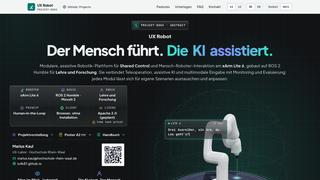
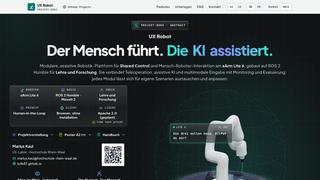
update project pages (dev_ws 435483bd)

Changed region(s): [[0.5, 0.6111, 0.7812, 0.9167], [0.625, 0.9444, 0.7812, 1.0]]

diff --git a/index.html b/index.html
@@ -887,7 +887,7 @@ footer p { margin: 0; }
     <p class="kicker"><b>01</b><span>UX Lab</span></p>
     <h2 id="h-lab" data-en="UX Lab · Rhine-Waal University of Applied Sciences">UX Lab · Hochschule Rhein-Waal</h2>
     <p class="intro" data-en="Robotics platform and research belong together: the study runs on UX Robot.">Robotik-Plattform und Forschung gehören zusammen: Die Studie läuft auf UX Robot.</p>
-    <div class="grid rows"><article class="card row" id="p-ux_robot" data-reveal><div class="info"><div class="plate"><a class="qr-code" href="web_ux_robot/project_docs.html" aria-label="QR-Code lu4k87.github.io/web_ux_robot" data-en-aria="QR code lu4k87.github.io/web_ux_robot"><svg viewBox="0 0 29 29" class="segno"><path class="qrline" stroke="#000" d="M0 0.5h7m1 0h3m1 0h1m1 0h1m1 0h5m1 0h7m-29 1h1m5 0h1m1 0h2m6 0h2m2 0h1m1 0h1m5 0h1m-29 1h1m1 0h3m1 0h1m2 0h1m1 0h1m1 0h1m1 0h1m2 0h1m1 0h1m1 0h1m1 0h3m1 0h1m-29 1h1m1 0h3m1 0h1m1 0h1m1 0h1m6 0h1m1 0h1m2 0h1m1 0h3m1 0h1m-29 1h1m1 0h3m1 0h1m2 0h1m4 0h3m2 0h2m1 0h1m1 0h3m1 0h1m-29 1h1m5 0h1m2 0h3m1 0h1m2 0h4m2 0h1m5 0h1m-29 1h7m1 0h1m1 0h1m1 0h1m1 0h1m1 0h1m1 0h1m1 0h1m1 0h7m-21 1h1m5 0h2m1 0h4m-21 1h1m1 0h2m1 0h3m1 0h3m1 0h1m2 0h2m1 0h1m2 0h1m2 0h1m1 0h2m-29 1h4m3 0h3m1 0h1m1 0h1m2 0h5m1 0h1m1 0h1m3 0h1m-27 1h7m2 0h1m1 0h1m2 0h1m1 0h1m3 0h1m1 0h1m1 0h2m-28 1h2m1 0h2m2 0h3m2 0h1m2 0h1m2 0h3m1 0h1m1 0h1m3 0h1m-29 1h3m3 0h1m1 0h1m1 0h3m1 0h1m2 0h1m2 0h2m3 0h2m-27 1h4m3 0h3m4 0h6m1 0h2m3 0h3m-29 1h1m5 0h1m2 0h1m2 0h2m2 0h4m1 0h2m3 0h3m-29 1h4m3 0h2m1 0h1m1 0h1m1 0h1m7 0h3m2 0h1m-28 1h2m4 0h1m2 0h3m2 0h1m1 0h1m1 0h3m3 0h2m1 0h1m-26 1h3m2 0h1m1 0h1m1 0h2m1 0h2m4 0h1m4 0h3m-28 1h1m1 0h7m4 0h4m5 0h3m1 0h1m-25 1h4m1 0h3m1 0h8m3 0h1m3 0h1m-26 1h3m2 0h1m2 0h2m2 0h3m1 0h10m-19 1h1m1 0h1m1 0h1m2 0h2m1 0h3m3 0h5m-29 1h7m1 0h2m4 0h1m4 0h2m1 0h1m1 0h2m1 0h1m-28 1h1m5 0h1m1 0h1m1 0h2m1 0h2m1 0h1m3 0h1m3 0h2m1 0h2m-29 1h1m1 0h3m1 0h1m4 0h1m4 0h1m3 0h5m1 0h1m-27 1h1m1 0h3m1 0h1m1 0h1m1 0h1m4 0h2m1 0h4m2 0h2m2 0h1m-29 1h1m1 0h3m1 0h1m1 0h5m1 0h1m2 0h4m2 0h1m2 0h1m1 0h1m-29 1h1m5 0h1m2 0h3m3 0h2m3 0h1m3 0h2m1 0h1m-28 1h7m1 0h3m3 0h1m1 0h1m1 0h5m1 0h1m2 0h1"/></svg></a><div class="qr-meta"><span class="host">lu4k87.github.io</span><a class="path" href="web_ux_robot/project_docs.html">/web_<wbr>ux_<wbr>robot</a><span class="scan"><svg class="i" aria-hidden="true"><use href="#i-qr"/></svg><span data-en="Scan to open">Zum Scannen</span></span><button class="qr-more" type="button" aria-expanded="false"><svg class="i" aria-hidden="true"><use href="#i-qr"/></svg><span class="qr-show" data-en="Show QR code">QR-Code zeigen</span><span class="qr-hide" data-en="Hide QR code">QR-Code ausblenden</span></button></div></div><div class="body"><p class="tag" data-en="Robotics · ROS 2 · xArm Lite 6">Robotik · ROS 2 · xArm Lite 6</p><h3>UX Robot</h3><p class="desc" data-en="Assistive robotics platform for the xArm Lite 6 – The human leads. The AI assists.">Assistive Robotik-Plattform für den xArm Lite 6 – Der Mensch führt. Die KI assistiert.</p></div><div class="acts"><div class="btns"><a class="btn main" href="web_ux_robot/project_docs.html"><span data-en="Read the docs">Doku lesen</span><svg class="i go" aria-hidden="true"><use href="#i-go"/></svg></a><a class="btn" href="web_ux_robot/project_docs.html"><span data-en="Open page">Seite öffnen</span><svg class="i go" aria-hidden="true"><use href="#i-go"/></svg></a></div><span class="repo-status" role="img" aria-label="Code privat" data-en-aria="Code private"><svg class="i" aria-hidden="true"><use href="#i-lock"/></svg><span data-en="Code private">Code privat</span></span></div></div><div class="shot"><a class="win" href="web_ux_robot/project_docs.html" aria-label="Seite öffnen: UX Robot · lu4k87.github.io/web_ux_robot" data-en-aria="Open page: UX Robot · lu4k87.github.io/web_ux_robot"><span class="win-bar"><i></i><i></i><i></i><span class="win-url">lu4k87.github.io/<wbr>web_<wbr>ux_<wbr>robot</span></span><span class="win-view tall" style="--r: 0.225; --d: 10.3s"><span class="win-pane"><img src="web_shots/ux_robot.jpg?v=a13799be" width="1200" height="3000" alt="" loading="lazy" decoding="async"></span><i class="win-pos" aria-hidden="true"><b></b></i></span></a></div></article><article class="card row" id="p-ux_robot_research" data-reveal><div class="info"><div class="plate"><a class="qr-code" href="web_ux_robot/present_research.html" aria-label="QR-Code lu4k87.github.io/web_ux_robot_research" data-en-aria="QR code lu4k87.github.io/web_ux_robot_research"><svg viewBox="0 0 33 33" class="segno"><path class="qrline" stroke="#000" d="M0 0.5h7m1 0h2m2 0h2m1 0h1m2 0h2m1 0h4m1 0h7m-33 1h1m5 0h1m2 0h4m4 0h2m2 0h2m1 0h1m1 0h1m5 0h1m-33 1h1m1 0h3m1 0h1m2 0h1m3 0h2m4 0h1m1 0h1m2 0h1m1 0h1m1 0h3m1 0h1m-33 1h1m1 0h3m1 0h1m3 0h4m1 0h3m3 0h3m2 0h1m1 0h3m1 0h1m-33 1h1m1 0h3m1 0h1m1 0h5m4 0h7m2 0h1m1 0h3m1 0h1m-33 1h1m5 0h1m1 0h1m3 0h4m1 0h1m4 0h1m3 0h1m5 0h1m-33 1h7m1 0h1m1 0h1m1 0h1m1 0h1m1 0h1m1 0h1m1 0h1m1 0h1m1 0h1m1 0h7m-23 1h1m2 0h1m1 0h2m1 0h2m1 0h3m-23 1h7m1 0h3m1 0h2m2 0h1m5 0h1m3 0h2m3 0h1m-33 1h2m1 0h2m3 0h5m3 0h5m2 0h2m1 0h2m1 0h4m-33 1h2m4 0h2m3 0h1m1 0h3m2 0h1m1 0h1m1 0h1m3 0h1m1 0h1m1 0h2m-31 1h2m4 0h2m1 0h1m1 0h1m1 0h3m1 0h1m1 0h5m3 0h5m-29 1h1m1 0h3m7 0h1m1 0h1m1 0h1m1 0h4m2 0h2m1 0h2m-25 1h1m2 0h2m3 0h1m1 0h3m1 0h2m1 0h1m3 0h4m-29 1h1m1 0h2m1 0h1m1 0h4m1 0h3m1 0h1m1 0h1m1 0h3m2 0h1m1 0h1m-31 1h1m2 0h1m3 0h2m1 0h2m1 0h1m1 0h1m4 0h1m1 0h4m2 0h2m-28 1h1m2 0h1m2 0h4m1 0h1m1 0h2m2 0h1m1 0h1m1 0h2m1 0h2m3 0h1m-33 1h1m6 0h1m1 0h2m1 0h2m3 0h1m1 0h3m1 0h1m2 0h2m1 0h2m1 0h1m-33 1h2m1 0h1m1 0h7m2 0h5m5 0h5m1 0h1m-29 1h1m1 0h1m2 0h1m3 0h1m3 0h4m2 0h1m3 0h8m-33 1h1m3 0h3m1 0h4m1 0h2m3 0h2m2 0h1m1 0h2m2 0h2m1 0h2m-33 1h1m2 0h3m1 0h3m4 0h3m1 0h4m1 0h1m1 0h2m2 0h2m1 0h1m-33 1h1m1 0h1m3 0h6m3 0h3m2 0h1m1 0h1m2 0h2m1 0h4m-32 1h1m2 0h3m1 0h2m4 0h2m3 0h1m1 0h4m4 0h3m1 0h1m-33 1h1m2 0h1m1 0h2m1 0h1m1 0h2m2 0h2m1 0h2m3 0h7m2 0h2m-25 1h6m4 0h4m1 0h2m3 0h1m1 0h1m1 0h1m-33 1h7m1 0h2m2 0h2m4 0h1m2 0h4m1 0h1m1 0h1m1 0h2m-32 1h1m5 0h1m1 0h3m1 0h1m2 0h1m2 0h1m1 0h3m1 0h1m3 0h4m-32 1h1m1 0h3m1 0h1m1 0h2m1 0h2m1 0h4m4 0h1m1 0h6m2 0h1m-33 1h1m1 0h3m1 0h1m1 0h2m1 0h1m2 0h7m1 0h4m2 0h1m1 0h1m1 0h1m-33 1h1m1 0h3m1 0h1m1 0h1m2 0h2m2 0h4m1 0h2m1 0h5m-28 1h1m5 0h1m1 0h2m1 0h3m1 0h5m1 0h2m5 0h3m-31 1h7m2 0h2m1 0h1m1 0h2m1 0h2m1 0h1m1 0h3m1 0h2m1 0h3"/></svg></a><div class="qr-meta"><span class="host">lu4k87.github.io</span><a class="path" href="web_ux_robot/present_research.html">/web_<wbr>ux_<wbr>robot_<wbr>research</a><span class="scan"><svg class="i" aria-hidden="true"><use href="#i-qr"/></svg><span data-en="Scan to open">Zum Scannen</span></span><button class="qr-more" type="button" aria-expanded="false"><svg class="i" aria-hidden="true"><use href="#i-qr"/></svg><span class="qr-show" data-en="Show QR code">QR-Code zeigen</span><span class="qr-hide" data-en="Hide QR code">QR-Code ausblenden</span></button></div></div><div class="body"><p class="tag" data-en="Research · human factors">Forschung · Human Factors</p><h3>Look, Speak, Confirm</h3><p class="desc" data-en="Study of gaze, speech and confirmation as complementary interaction for robot manipulation.">Studie zu Blick, Sprache und Bestätigung als sich ergänzende Bedienung für Roboter-Manipulation.</p></div><div class="acts"><div class="btns"><a class="btn main" href="web_ux_robot/present_research.html"><span data-en="Read the study">Studie lesen</span><svg class="i go" aria-hidden="true"><use href="#i-go"/></svg></a><a class="btn" href="web_ux_robot/present_research.html"><span data-en="Open page">Seite öffnen</span><svg class="i go" aria-hidden="true"><use href="#i-go"/></svg></a></div><span class="repo-status" role="img" aria-label="Code privat" data-en-aria="Code private"><svg class="i" aria-hidden="true"><use href="#i-lock"/></svg><span data-en="Code private">Code privat</span></span></div></div><div class="shot"><a class="win" href="web_ux_robot/present_research.html" aria-label="Seite öffnen: Look, Speak, Confirm · lu4k87.github.io/web_ux_robot_research" data-en-aria="Open page: Look, Speak, Confirm · lu4k87.github.io/web_ux_robot_research"><span class="win-bar"><i></i><i></i><i></i><span class="win-url">lu4k87.github.io/<wbr>web_<wbr>ux_<wbr>robot_<wbr>research</span></span><span class="win-view tall" style="--r: 0.225; --d: 10.3s"><span class="win-pane"><img src="web_shots/ux_robot_research.jpg?v=a13799be" width="1200" height="3000" alt="" loading="lazy" decoding="async"></span><i class="win-pos" aria-hidden="true"><b></b></i></span></a></div></article></div>
+    <div class="grid rows"><article class="card row" id="p-ux_robot" data-reveal><div class="info"><div class="plate"><a class="qr-code" href="web_ux_robot/project_docs.html" aria-label="QR-Code lu4k87.github.io/web_ux_robot" data-en-aria="QR code lu4k87.github.io/web_ux_robot"><svg viewBox="0 0 29 29" class="segno"><path class="qrline" stroke="#000" d="M0 0.5h7m1 0h3m1 0h1m1 0h1m1 0h5m1 0h7m-29 1h1m5 0h1m1 0h2m6 0h2m2 0h1m1 0h1m5 0h1m-29 1h1m1 0h3m1 0h1m2 0h1m1 0h1m1 0h1m1 0h1m2 0h1m1 0h1m1 0h1m1 0h3m1 0h1m-29 1h1m1 0h3m1 0h1m1 0h1m1 0h1m6 0h1m1 0h1m2 0h1m1 0h3m1 0h1m-29 1h1m1 0h3m1 0h1m2 0h1m4 0h3m2 0h2m1 0h1m1 0h3m1 0h1m-29 1h1m5 0h1m2 0h3m1 0h1m2 0h4m2 0h1m5 0h1m-29 1h7m1 0h1m1 0h1m1 0h1m1 0h1m1 0h1m1 0h1m1 0h1m1 0h7m-21 1h1m5 0h2m1 0h4m-21 1h1m1 0h2m1 0h3m1 0h3m1 0h1m2 0h2m1 0h1m2 0h1m2 0h1m1 0h2m-29 1h4m3 0h3m1 0h1m1 0h1m2 0h5m1 0h1m1 0h1m3 0h1m-27 1h7m2 0h1m1 0h1m2 0h1m1 0h1m3 0h1m1 0h1m1 0h2m-28 1h2m1 0h2m2 0h3m2 0h1m2 0h1m2 0h3m1 0h1m1 0h1m3 0h1m-29 1h3m3 0h1m1 0h1m1 0h3m1 0h1m2 0h1m2 0h2m3 0h2m-27 1h4m3 0h3m4 0h6m1 0h2m3 0h3m-29 1h1m5 0h1m2 0h1m2 0h2m2 0h4m1 0h2m3 0h3m-29 1h4m3 0h2m1 0h1m1 0h1m1 0h1m7 0h3m2 0h1m-28 1h2m4 0h1m2 0h3m2 0h1m1 0h1m1 0h3m3 0h2m1 0h1m-26 1h3m2 0h1m1 0h1m1 0h2m1 0h2m4 0h1m4 0h3m-28 1h1m1 0h7m4 0h4m5 0h3m1 0h1m-25 1h4m1 0h3m1 0h8m3 0h1m3 0h1m-26 1h3m2 0h1m2 0h2m2 0h3m1 0h10m-19 1h1m1 0h1m1 0h1m2 0h2m1 0h3m3 0h5m-29 1h7m1 0h2m4 0h1m4 0h2m1 0h1m1 0h2m1 0h1m-28 1h1m5 0h1m1 0h1m1 0h2m1 0h2m1 0h1m3 0h1m3 0h2m1 0h2m-29 1h1m1 0h3m1 0h1m4 0h1m4 0h1m3 0h5m1 0h1m-27 1h1m1 0h3m1 0h1m1 0h1m1 0h1m4 0h2m1 0h4m2 0h2m2 0h1m-29 1h1m1 0h3m1 0h1m1 0h5m1 0h1m2 0h4m2 0h1m2 0h1m1 0h1m-29 1h1m5 0h1m2 0h3m3 0h2m3 0h1m3 0h2m1 0h1m-28 1h7m1 0h3m3 0h1m1 0h1m1 0h5m1 0h1m2 0h1"/></svg></a><div class="qr-meta"><span class="host">lu4k87.github.io</span><a class="path" href="web_ux_robot/project_docs.html">/web_<wbr>ux_<wbr>robot</a><span class="scan"><svg class="i" aria-hidden="true"><use href="#i-qr"/></svg><span data-en="Scan to open">Zum Scannen</span></span><button class="qr-more" type="button" aria-expanded="false"><svg class="i" aria-hidden="true"><use href="#i-qr"/></svg><span class="qr-show" data-en="Show QR code">QR-Code zeigen</span><span class="qr-hide" data-en="Hide QR code">QR-Code ausblenden</span></button></div></div><div class="body"><p class="tag" data-en="Robotics · ROS 2 · xArm Lite 6">Robotik · ROS 2 · xArm Lite 6</p><h3>UX Robot</h3><p class="desc" data-en="Assistive robotics platform for the xArm Lite 6 – The human leads. The AI assists.">Assistive Robotik-Plattform für den xArm Lite 6 – Der Mensch führt. Die KI assistiert.</p></div><div class="acts"><div class="btns"><a class="btn main" href="web_ux_robot/project_docs.html"><span data-en="Read the docs">Doku lesen</span><svg class="i go" aria-hidden="true"><use href="#i-go"/></svg></a><a class="btn" href="web_ux_robot/project_docs.html"><span data-en="Open page">Seite öffnen</span><svg class="i go" aria-hidden="true"><use href="#i-go"/></svg></a></div><span class="repo-status" role="img" aria-label="Code privat" data-en-aria="Code private"><svg class="i" aria-hidden="true"><use href="#i-lock"/></svg><span data-en="Code private">Code privat</span></span></div></div><div class="shot"><a class="win" href="web_ux_robot/project_docs.html" aria-label="Seite öffnen: UX Robot · lu4k87.github.io/web_ux_robot" data-en-aria="Open page: UX Robot · lu4k87.github.io/web_ux_robot"><span class="win-bar"><i></i><i></i><i></i><span class="win-url">lu4k87.github.io/<wbr>web_<wbr>ux_<wbr>robot</span></span><span class="win-view tall" style="--r: 0.225; --d: 10.3s"><span class="win-pane"><img src="web_shots/ux_robot.jpg?v=cf97cbbd" width="1200" height="3000" alt="" loading="lazy" decoding="async"></span><i class="win-pos" aria-hidden="true"><b></b></i></span></a></div></article><article class="card row" id="p-ux_robot_research" data-reveal><div class="info"><div class="plate"><a class="qr-code" href="web_ux_robot/present_research.html" aria-label="QR-Code lu4k87.github.io/web_ux_robot_research" data-en-aria="QR code lu4k87.github.io/web_ux_robot_research"><svg viewBox="0 0 33 33" class="segno"><path class="qrline" stroke="#000" d="M0 0.5h7m1 0h2m2 0h2m1 0h1m2 0h2m1 0h4m1 0h7m-33 1h1m5 0h1m2 0h4m4 0h2m2 0h2m1 0h1m1 0h1m5 0h1m-33 1h1m1 0h3m1 0h1m2 0h1m3 0h2m4 0h1m1 0h1m2 0h1m1 0h1m1 0h3m1 0h1m-33 1h1m1 0h3m1 0h1m3 0h4m1 0h3m3 0h3m2 0h1m1 0h3m1 0h1m-33 1h1m1 0h3m1 0h1m1 0h5m4 0h7m2 0h1m1 0h3m1 0h1m-33 1h1m5 0h1m1 0h1m3 0h4m1 0h1m4 0h1m3 0h1m5 0h1m-33 1h7m1 0h1m1 0h1m1 0h1m1 0h1m1 0h1m1 0h1m1 0h1m1 0h1m1 0h1m1 0h7m-23 1h1m2 0h1m1 0h2m1 0h2m1 0h3m-23 1h7m1 0h3m1 0h2m2 0h1m5 0h1m3 0h2m3 0h1m-33 1h2m1 0h2m3 0h5m3 0h5m2 0h2m1 0h2m1 0h4m-33 1h2m4 0h2m3 0h1m1 0h3m2 0h1m1 0h1m1 0h1m3 0h1m1 0h1m1 0h2m-31 1h2m4 0h2m1 0h1m1 0h1m1 0h3m1 0h1m1 0h5m3 0h5m-29 1h1m1 0h3m7 0h1m1 0h1m1 0h1m1 0h4m2 0h2m1 0h2m-25 1h1m2 0h2m3 0h1m1 0h3m1 0h2m1 0h1m3 0h4m-29 1h1m1 0h2m1 0h1m1 0h4m1 0h3m1 0h1m1 0h1m1 0h3m2 0h1m1 0h1m-31 1h1m2 0h1m3 0h2m1 0h2m1 0h1m1 0h1m4 0h1m1 0h4m2 0h2m-28 1h1m2 0h1m2 0h4m1 0h1m1 0h2m2 0h1m1 0h1m1 0h2m1 0h2m3 0h1m-33 1h1m6 0h1m1 0h2m1 0h2m3 0h1m1 0h3m1 0h1m2 0h2m1 0h2m1 0h1m-33 1h2m1 0h1m1 0h7m2 0h5m5 0h5m1 0h1m-29 1h1m1 0h1m2 0h1m3 0h1m3 0h4m2 0h1m3 0h8m-33 1h1m3 0h3m1 0h4m1 0h2m3 0h2m2 0h1m1 0h2m2 0h2m1 0h2m-33 1h1m2 0h3m1 0h3m4 0h3m1 0h4m1 0h1m1 0h2m2 0h2m1 0h1m-33 1h1m1 0h1m3 0h6m3 0h3m2 0h1m1 0h1m2 0h2m1 0h4m-32 1h1m2 0h3m1 0h2m4 0h2m3 0h1m1 0h4m4 0h3m1 0h1m-33 1h1m2 0h1m1 0h2m1 0h1m1 0h2m2 0h2m1 0h2m3 0h7m2 0h2m-25 1h6m4 0h4m1 0h2m3 0h1m1 0h1m1 0h1m-33 1h7m1 0h2m2 0h2m4 0h1m2 0h4m1 0h1m1 0h1m1 0h2m-32 1h1m5 0h1m1 0h3m1 0h1m2 0h1m2 0h1m1 0h3m1 0h1m3 0h4m-32 1h1m1 0h3m1 0h1m1 0h2m1 0h2m1 0h4m4 0h1m1 0h6m2 0h1m-33 1h1m1 0h3m1 0h1m1 0h2m1 0h1m2 0h7m1 0h4m2 0h1m1 0h1m1 0h1m-33 1h1m1 0h3m1 0h1m1 0h1m2 0h2m2 0h4m1 0h2m1 0h5m-28 1h1m5 0h1m1 0h2m1 0h3m1 0h5m1 0h2m5 0h3m-31 1h7m2 0h2m1 0h1m1 0h2m1 0h2m1 0h1m1 0h3m1 0h2m1 0h3"/></svg></a><div class="qr-meta"><span class="host">lu4k87.github.io</span><a class="path" href="web_ux_robot/present_research.html">/web_<wbr>ux_<wbr>robot_<wbr>research</a><span class="scan"><svg class="i" aria-hidden="true"><use href="#i-qr"/></svg><span data-en="Scan to open">Zum Scannen</span></span><button class="qr-more" type="button" aria-expanded="false"><svg class="i" aria-hidden="true"><use href="#i-qr"/></svg><span class="qr-show" data-en="Show QR code">QR-Code zeigen</span><span class="qr-hide" data-en="Hide QR code">QR-Code ausblenden</span></button></div></div><div class="body"><p class="tag" data-en="Research · human factors">Forschung · Human Factors</p><h3>Look, Speak, Confirm</h3><p class="desc" data-en="Study of gaze, speech and confirmation as complementary interaction for robot manipulation.">Studie zu Blick, Sprache und Bestätigung als sich ergänzende Bedienung für Roboter-Manipulation.</p></div><div class="acts"><div class="btns"><a class="btn main" href="web_ux_robot/present_research.html"><span data-en="Read the study">Studie lesen</span><svg class="i go" aria-hidden="true"><use href="#i-go"/></svg></a><a class="btn" href="web_ux_robot/present_research.html"><span data-en="Open page">Seite öffnen</span><svg class="i go" aria-hidden="true"><use href="#i-go"/></svg></a></div><span class="repo-status" role="img" aria-label="Code privat" data-en-aria="Code private"><svg class="i" aria-hidden="true"><use href="#i-lock"/></svg><span data-en="Code private">Code privat</span></span></div></div><div class="shot"><a class="win" href="web_ux_robot/present_research.html" aria-label="Seite öffnen: Look, Speak, Confirm · lu4k87.github.io/web_ux_robot_research" data-en-aria="Open page: Look, Speak, Confirm · lu4k87.github.io/web_ux_robot_research"><span class="win-bar"><i></i><i></i><i></i><span class="win-url">lu4k87.github.io/<wbr>web_<wbr>ux_<wbr>robot_<wbr>research</span></span><span class="win-view tall" style="--r: 0.225; --d: 10.3s"><span class="win-pane"><img src="web_shots/ux_robot_research.jpg?v=cf97cbbd" width="1200" height="3000" alt="" loading="lazy" decoding="async"></span><i class="win-pos" aria-hidden="true"><b></b></i></span></a></div></article></div>
   </section>
 
   <section aria-labelledby="h-projects">

diff --git a/web_ux_robot/de/robot_control_ui.md b/web_ux_robot/de/robot_control_ui.md
@@ -98,7 +98,8 @@
 >> | `approach_descent_scaling` | `0.15` | *Tempo des senkrechten Absenkens.* |
 >> | `approach_object_match_radius` | `0.03` | *Max. XY-Abstand [m] zwischen Ziel und Greifkugel, um das Objekt zuzuordnen.* |
 >> | `moveit_controller_status_topic` | `/lite6_traj_controller/follow_joint_trajectory/_action/status` | *Status-Topic, an dem der Start der Ausführung erkannt wird.* |
->> | `auto_initial_pose` | `true` | *Beim Start in die Home-Pose fahren – kollisionsfrei über MoveIt geplant (wartet bis zu 30 s auf `/move_action`, mit Bahnvorschau auf Bestätigung); an Robot | Hardware (xArm-Treiber gesehen) wartet sie immer auf *Ausführen* im MoveIt-Popup, auch mit Bahnvorschau aus – *Verwerfen* oder kein Klick innerhalb `moveto_preview_timeout` (15 s) = keine Fahrt, Hinweis im Log; Robot | Digital Twin fährt wie bisher ohne Bestätigung; `false` lässt den Arm stehen. Entfällt nach jedem E-STOP seit dem Start (verriegelt von vor einem Neustart oder schon quittiert, bevor MoveIt Servo bereit war) – dann Home von Hand.* |
+>> | `auto_initial_pose` | `true` | *Beim Start in die Home-Pose fahren – kollisionsfrei über MoveIt geplant (wartet bis zu 30 s auf `/move_action`, mit Bahnvorschau auf Bestätigung); an Robot \| Hardware (`real_hardware` oder xArm-Treiber gesehen) wartet sie immer auf *Ausführen* im MoveIt-Popup und zeigt die Bahn als Geist, auch mit Bahnvorschau aus – *Verwerfen* oder kein Klick innerhalb `moveto_preview_timeout` (15 s) = keine Fahrt, Hinweis im Log; Robot \| Digital Twin fährt wie bisher ohne Bestätigung; `false` lässt den Arm stehen. Entfällt nach jedem E-STOP seit dem Start (verriegelt von vor einem Neustart oder schon quittiert, bevor MoveIt Servo bereit war) – dann Home von Hand.* |
+>> | `real_hardware` | `false` | *Setzt die Launch: `true` an Robot \| Hardware (`ros2_control_plugin` ≠ Fake-Hardware, Realmove- und Fake-Launch). Die Initialpose wartet dann auf *Ausführen*, auch wenn der xArm-Treiber noch still ist; sonst steht im Log `Robot \| Digital Twin detected - initial pose without confirmation`.* |
 >
 >
 > ![Subscribes](https://img.shields.io/badge/Subscribes-orange?style=flat-square)

diff --git a/web_ux_robot/en/robot_control_ui.md b/web_ux_robot/en/robot_control_ui.md
@@ -98,7 +98,8 @@
 >> | `approach_descent_scaling` | `0.15` | *Speed of the vertical descent.* |
 >> | `approach_object_match_radius` | `0.03` | *Max. XY distance [m] between target and grasp sphere to identify the object.* |
 >> | `moveit_controller_status_topic` | `/lite6_traj_controller/follow_joint_trajectory/_action/status` | *Status topic used to detect the start of execution.* |
->> | `auto_initial_pose` | `true` | *Move to the home pose at startup – planned collision-free via MoveIt (waits up to 30 s for `/move_action`, with path preview it waits for confirmation); on Robot | Hardware (xArm driver seen) it always waits for *Execute* in the MoveIt popup, even with the path preview off – *Discard* or no click within `moveto_preview_timeout` (15 s) = no motion, note in the log; Robot | Digital Twin moves without confirmation as before; `false` keeps the arm still. Skipped after any E-STOP since the start (latched from before a restart or already reset before MoveIt Servo was ready) – then move Home by hand.* |
+>> | `auto_initial_pose` | `true` | *Move to the home pose at startup – planned collision-free via MoveIt (waits up to 30 s for `/move_action`, with path preview it waits for confirmation); on Robot \| Hardware (`real_hardware` or xArm driver seen) it always waits for *Execute* in the MoveIt popup and shows the path as a ghost, even with the path preview off – *Discard* or no click within `moveto_preview_timeout` (15 s) = no motion, note in the log; Robot \| Digital Twin moves without confirmation as before; `false` keeps the arm still. Skipped after any E-STOP since the start (latched from before a restart or already reset before MoveIt Servo was ready) – then move Home by hand.* |
+>> | `real_hardware` | `false` | *Set by the launch: `true` on Robot \| Hardware (`ros2_control_plugin` ≠ fake hardware, realmove and fake launch). The initial pose then waits for *Execute* even while the xArm driver is still silent; the log shows `Robot \| Digital Twin detected - initial pose without confirmation` otherwise.* |
 >
 >
 > ![Subscribes](https://img.shields.io/badge/Subscribes-orange?style=flat-square)
